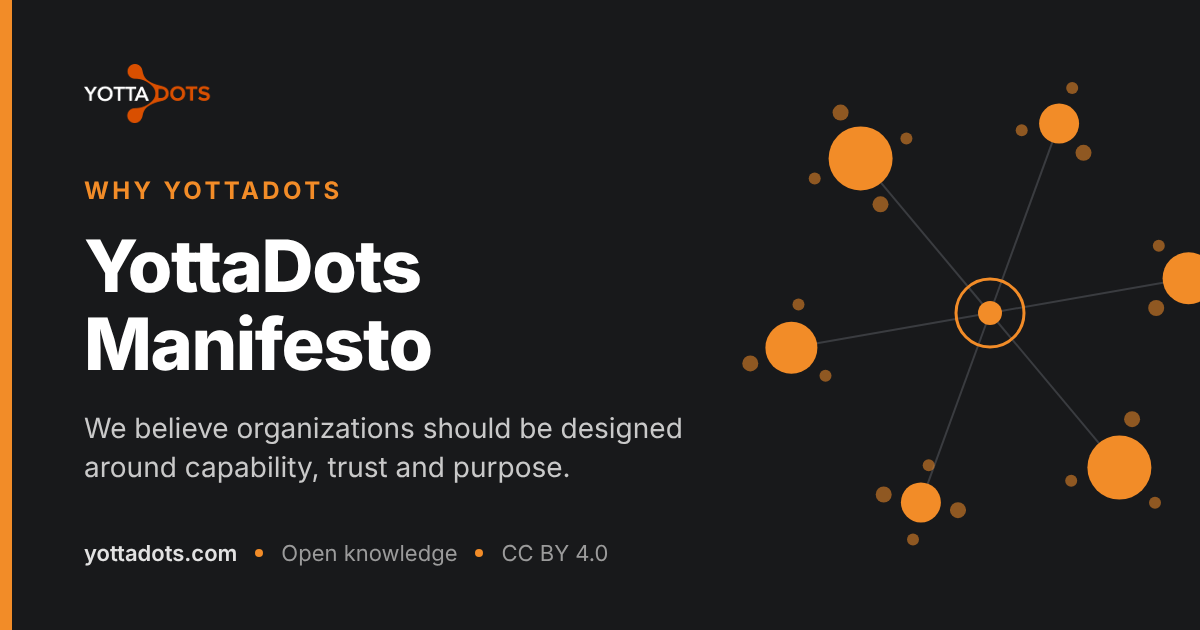
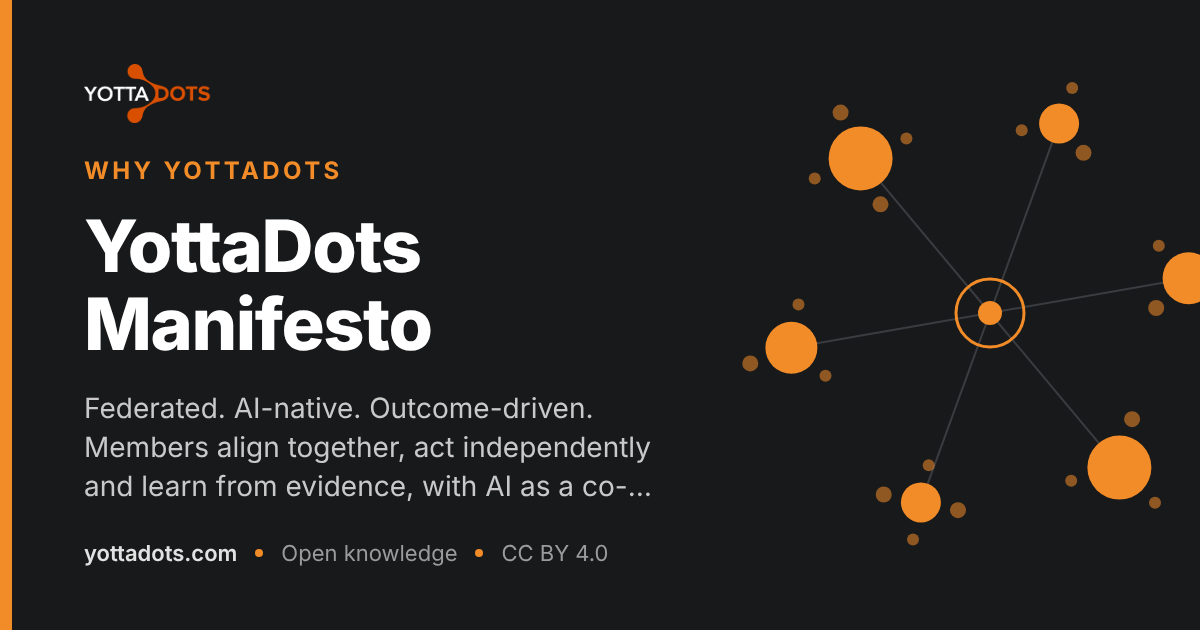
Manifesto: bring back the full manifesto, adapted to D1, with redrawn visual
- Structure from the original manifesto: 10 beliefs, 5 values, 10 commitments
- Three central statements rewritten from the members' side (D1)
- Visual redrawn as SVG from the original ChatGPT image, tagline adapted
- description front matter; manifesto share card regenerated

Claude-Session: https://claude.ai/code/session_01WDc2s8LhzF4VL9GJfsqXcP

Changed region(s): [[0.0617, 0.2413, 0.37, 0.6032], [0.0617, 0.6333, 0.5858, 0.7841]]

diff --git a/docs/why/manifesto.md b/docs/why/manifesto.md
@@ -1,22 +1,74 @@
 ---
 title: YottaDots Manifesto
+description: Federated. AI-native. Outcome-driven. Members align together, act independently and learn from evidence, with AI as a co-worker and humans accountable for outcomes.
 image: /img/social/why-manifesto.png
 ---
 
 # YottaDots Manifesto
 
-We believe organizations should be designed around capability, trust and purpose.
+**Federated. AI-native. Outcome-driven.**
 
-We believe decisions should be made as close as possible to the knowledge required to make them.
+Members align together, act independently and learn from evidence, with AI as
+a co-worker and humans accountable for outcomes.
 
-We believe autonomy needs alignment.
+![Three symbols. Left: independent members around a shared core, with arrows from the members to the core. Middle: a learning loop with a rising arrow. Right: a human head in front of an AI head with circuit lines. Text: Federated. AI-native. Outcome-driven. Members align together, act independently and learn from evidence, with AI as a co-worker and humans accountable for outcomes.](/img/diagrams/manifesto-summary.svg)
 
-We believe governance should enable rather than control.
+<small>Image redrawn from the original manifesto image (made with ChatGPT) and adapted to the federation model.</small>
 
-We believe AI will become a co-worker, not merely another tool.
+## We believe in
 
-We believe organizational knowledge should be open, reusable and continuously improved.
+1. **AI as a co-worker.** AI is a visible, accountable partner in analysis,
+   code and decisions.
+2. **Independent members, shared core.** Members agree together on a shared
+   direction. They delegate to a shared core only what must be shared, and
+   everything else stays with them.
+3. **Outcomes over output.** Value delivered counts, not activity reported.
+4. **Transparency.** Data, decisions and learning are open.
+5. **Empiricism.** We observe, measure and adapt. Evidence beats opinion.
+6. **Freedom of method.** Members and their teams choose the way of working
+   that fits their mission: Scrum, Kanban, PRINCE2, DevOps, release trains or
+   something else.
+7. **Lightweight governance.** Guardrails enable flow; they do not add
+   bureaucracy.
+8. **Human accountability.** AI strengthens people. People stay responsible.
+9. **Safety and quality by design.** Security, privacy and quality are built
+   in from the start.
+10. **Community and openness.** We share patterns so everyone gets better.
 
-And we believe better organizations are built together.
+## We value
 
-## Open knowledge. Better together.
+| | over | |
+|---|---|---|
+| **People and AI working together** | over | rigid roles and hierarchy |
+| **Adaptability and autonomy** | over | standard processes for their own sake |
+| **Evidence and outcomes** | over | effort and intentions |
+| **Clarity and trust** | over | control and opacity |
+| **Reuse and openness** | over | reinvention and silos |
+
+While there is value in the items on the right, we value the items on the left
+more.
+
+## We commit to
+
+1. **Agree on intent together.** Members set a shared direction and delegate
+   to the shared core only what must be shared. Members and their teams own
+   the rest.
+2. **Make work visible**, so flow, risk and value can be seen by everyone.
+3. **Let members and teams choose their method** and own the full lifecycle.
+4. **Use AI throughout**, from portfolio forecasts to code and tests.
+5. **Inspect and adapt** at a regular rhythm and when signals appear, with
+   small bets and fast feedback.
+6. **Build in safety** with security, privacy and quality gates.
+7. **Share playbooks.** Keep what works and retire what does not.
+8. **Measure what matters:** customer outcomes, time to learning and the total
+   cost of change.
+9. **Respect human judgment.** Override AI when the context requires it, and
+   record why.
+10. **Grow people:** skills, mobility and mastery across teams.
+
+## Join us
+
+Use this manifesto. Challenge it. Add your playbooks and patterns, and measure
+the outcomes.
+
+[Contribute to YottaDots](../community/contribute.md)
